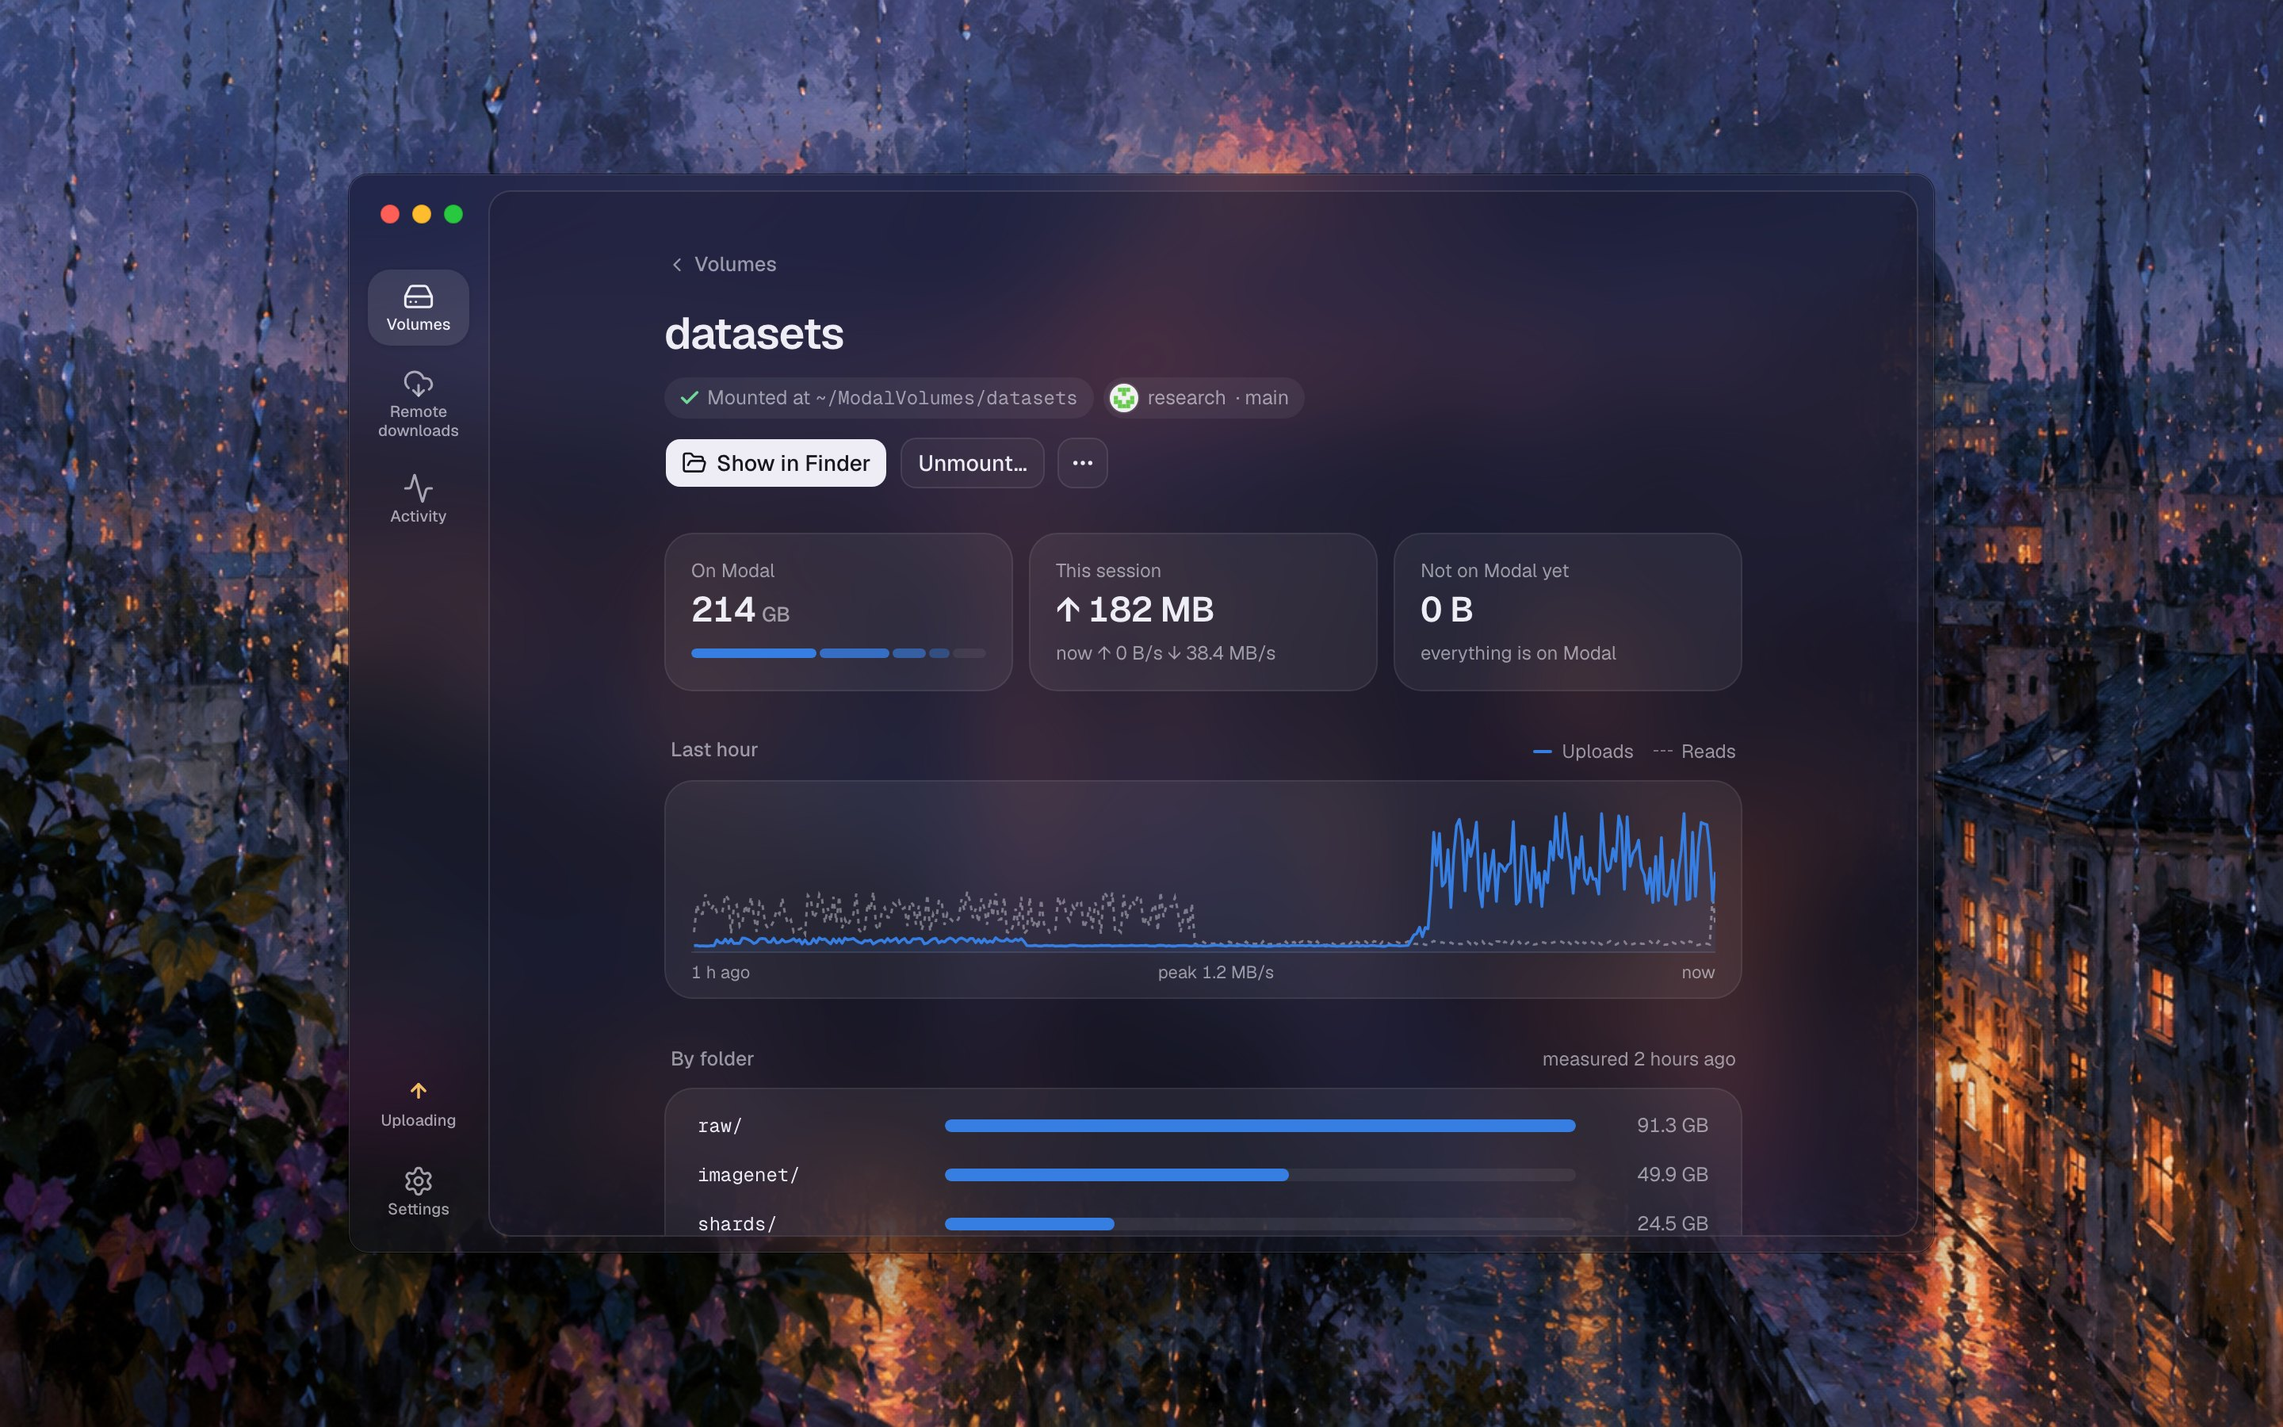
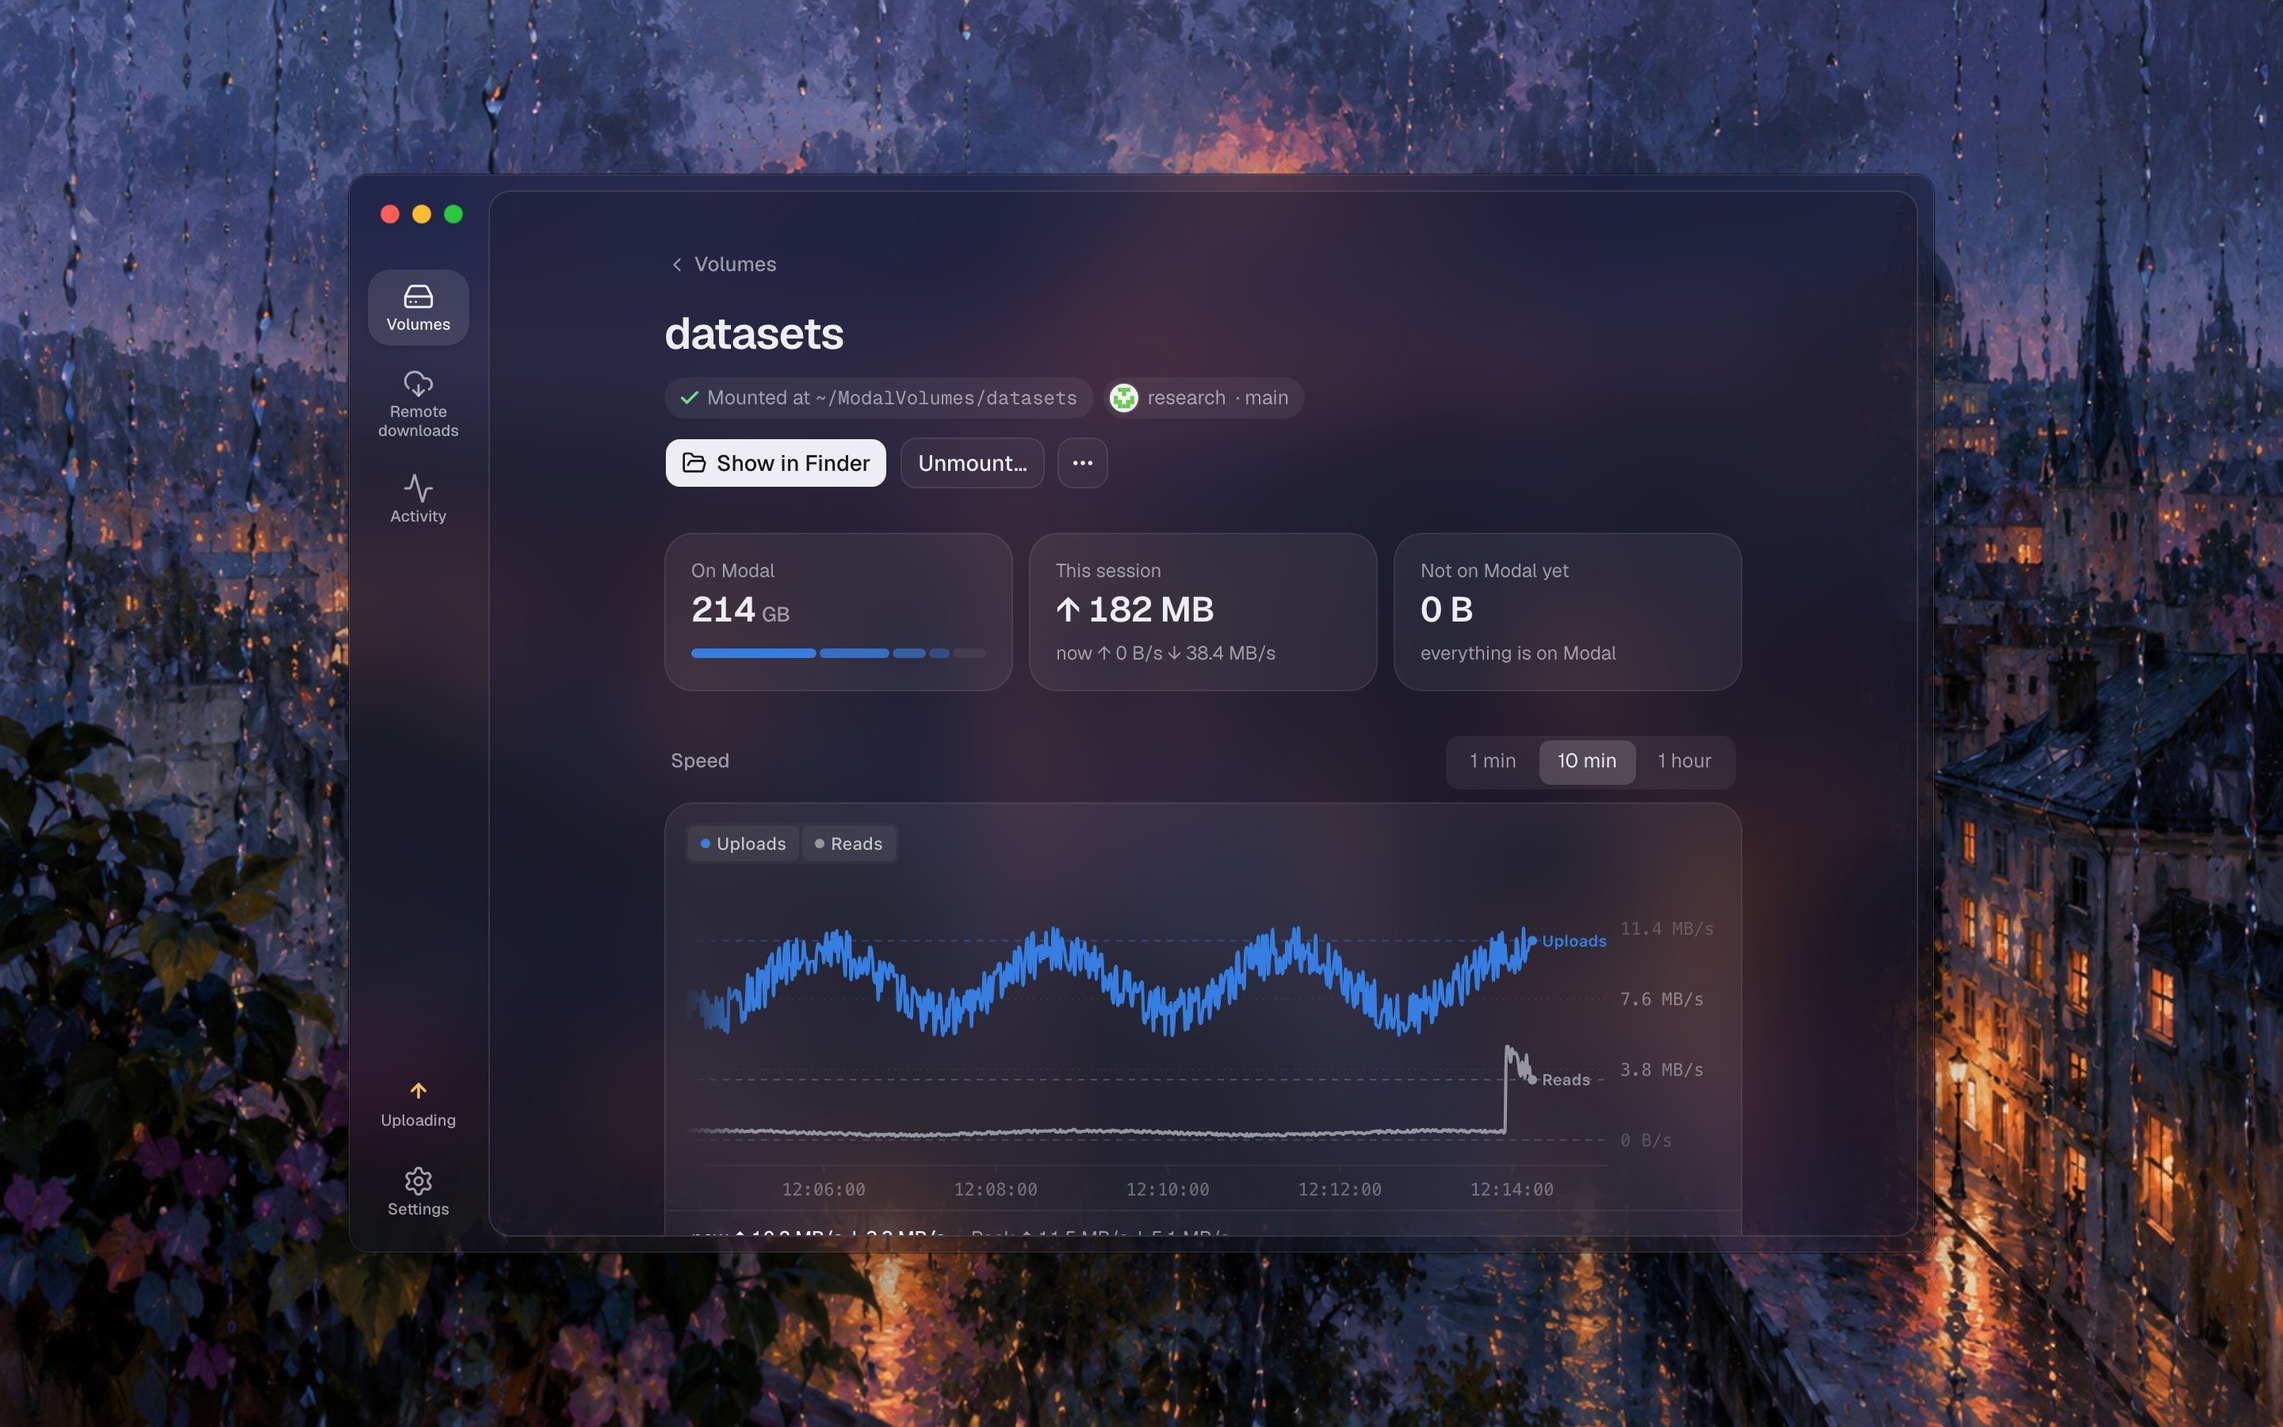
feat(ui): draw a volume's speed like a download's: live, with 1 min, 10 min and 1 hour

diff --git a/web/src/components/TrafficChart.tsx b/web/src/components/TrafficChart.tsx
@@ -1,50 +1,86 @@
+import { Liveline } from 'liveline'
 import { useMemo } from 'react'
 import { useTranslation } from 'react-i18next'
 import type { TrafficSample } from '@/api/types'
-import { bytes } from '@/lib/format'
+import { timeFormat, tokenColor } from '@/components/SpeedChart'
+import { downsample } from '@/lib/downloads'
+import { speed } from '@/lib/format'
 
-/**
- * What a mount uploaded and read over the last hour: the rate between each
- * sample the daemon took (every 10 s), as two lines over the same scale.
- */
-export function TrafficChart({ samples }: { samples: TrafficSample[] }) {
-  const { t } = useTranslation()
-  const { up, down, peak, from, to } = useMemo(() => {
-    const up: [number, number][] = []
-    const down: [number, number][] = []
+// A mount's upload and read speed, drawn like a download's (Liveline, scrolling
+// live) with the two as separate lines. The daemon samples the totals each
+// second; the speeds are the rates between samples.
+
+export type TrafficRange = 'minute' | 'tenMinutes' | 'hour'
+const RANGE_SECS: Record<TrafficRange, number> = { minute: 60, tenMinutes: 600, hour: 3600 }
+const PAD = { top: 18, bottom: 28, left: 12, right: 84 }
+
+type Point = { t: number; v: number }
+
+export function TrafficChart({ samples, range, dark }: { samples: TrafficSample[]; range: TrafficRange; dark: boolean }) {
+  const { t, i18n } = useTranslation()
+  const window = RANGE_SECS[range]
+
+  const { up, down } = useMemo(() => {
+    const up: Point[] = []
+    const down: Point[] = []
     for (let i = 1; i < samples.length; i++) {
       const [t0, u0, d0] = samples[i - 1]
       const [t1, u1, d1] = samples[i]
       const dt = Math.max(1, t1 - t0)
-      up.push([t1, Math.max(0, (u1 - u0) / dt)])
-      down.push([t1, Math.max(0, (d1 - d0) / dt)])
+      up.push({ t: t1, v: Math.max(0, (u1 - u0) / dt) })
+      down.push({ t: t1, v: Math.max(0, (d1 - d0) / dt) })
     }
-    const peak = Math.max(1, ...up.map((p) => p[1]), ...down.map((p) => p[1]))
-    const to = samples.at(-1)?.[0] ?? Date.now() / 1000
-    return { up, down, peak, from: to - 3600, to }
+    return { up, down }
   }, [samples])
 
-  const W = 700
-  const H = 96
-  const x = (ts: number) => ((ts - from) / (to - from)) * W
-  const y = (v: number) => H - 4 - (v / peak) * (H - 12)
-  const line = (pts: [number, number][]) => pts.map(([ts, v], i) => `${i ? 'L' : 'M'}${x(ts).toFixed(1)} ${y(v).toFixed(1)}`).join(' ')
-  const area = (pts: [number, number][]) => (pts.length ? `${line(pts)} L${x(pts.at(-1)![0]).toFixed(1)} ${H} L${x(pts[0][0]).toFixed(1)} ${H} Z` : '')
+  const brand = useMemo(() => tokenColor('--brand'), [])
+  // eslint-disable-next-line react-hooks/exhaustive-deps -- the token changes with the theme
+  const muted = useMemo(() => tokenColor('--muted-foreground', '--popover'), [dark])
+  const series = useMemo(() => {
+    const from = Date.now() / 1000 - window * 1.1
+    const shown = (pts: Point[]) => downsample(pts.filter((p) => p.t >= from), window).map((p) => ({ time: p.t, value: p.v }))
+    return [
+      { id: 'up', label: t('vol.uploads'), color: brand, data: shown(up), value: up.at(-1)?.v ?? 0 },
+      { id: 'down', label: t('vol.reads'), color: muted, data: shown(down), value: down.at(-1)?.v ?? 0 },
+    ]
+  }, [up, down, window, brand, muted, t])
+  const fmtTime = useMemo(() => timeFormat(window, 0, i18n.language), [window, i18n.language])
 
-  if (up.length < 2) return <div className="px-5 py-8 text-center text-[12.5px] text-muted-foreground">{t('vol.trafficSoon')}</div>
   return (
-    <div className="px-4 pt-3 pb-2">
-      <svg viewBox={`0 0 ${W} ${H}`} preserveAspectRatio="none" className="block h-24 w-full" role="img" aria-label={t('vol.trafficLabel', { peak: bytes(peak) })}>
-        <line x1="0" x2={W} y1={H - 0.5} y2={H - 0.5} stroke="currentColor" strokeOpacity="0.1" />
-        <path d={area(up)} fill="var(--brand)" fillOpacity="0.1" />
-        <path d={line(down)} fill="none" stroke="currentColor" strokeOpacity="0.4" strokeWidth="1.5" strokeDasharray="3 3" vectorEffect="non-scaling-stroke" />
-        <path d={line(up)} fill="none" stroke="var(--brand)" strokeWidth="1.8" strokeLinejoin="round" vectorEffect="non-scaling-stroke" />
-      </svg>
-      <div className="mt-1 flex justify-between text-[11px] text-muted-foreground tabular">
-        <span>{t('vol.hourAgo')}</span>
-        <span>{t('vol.peak', { speed: bytes(peak) })}</span>
-        <span>{t('vol.now')}</span>
+    <div>
+      {/* Liveline puts its toggles for the two lines above the chart, which takes the rest. */}
+      <div className="relative flex h-64 flex-col pt-3 max-[520px]:h-52">
+        <Liveline
+          data={series[0].data}
+          value={series[0].value}
+          series={series}
+          theme={dark ? 'dark' : 'light'}
+          window={window}
+          grid
+          pulse
+          loading={up.length < 2}
+          emptyText={t('downloads.chart.empty')}
+          formatValue={speed}
+          formatTime={fmtTime}
+          padding={PAD}
+          referenceLine={{ value: 0 }}
+          style={{ height: 'auto', flex: 1, minHeight: 0 }}
+        />
       </div>
+      <Readout up={up} down={down} window={window} />
+    </div>
+  )
+}
+
+/** Under the chart: the speeds now and their peaks in the window. Liveline shows the ones at the cursor. */
+function Readout({ up, down, window }: { up: Point[]; down: Point[]; window: number }) {
+  const { t } = useTranslation()
+  const from = (up.at(-1)?.t ?? 0) - window
+  const peak = (pts: Point[]) => pts.reduce((m, x) => (x.t >= from ? Math.max(m, x.v) : m), 0)
+  return (
+    <div className="flex min-h-9 flex-wrap items-center gap-x-4 gap-y-1 border-t border-card-border px-4 py-2 text-[12px] text-muted-foreground tabular">
+      <span className="font-medium text-foreground">{t('vol.speedNow', { up: speed(up.at(-1)?.v ?? 0), down: speed(down.at(-1)?.v ?? 0) })}</span>
+      <span>{t('vol.peaks', { up: speed(peak(up)), down: speed(peak(down)) })}</span>
     </div>
   )
 }

diff --git a/web/src/pages/VolumePage.tsx b/web/src/pages/VolumePage.tsx
@@ -7,12 +7,14 @@ import { api } from '@/api/client'
 import { patchMount, refreshState, refreshUsage, useAction, useConflicts, useLoadedState, usePending, useTraffic, useUsage, useVolumes } from '@/api/queries'
 import type { Mount } from '@/api/types'
 import { navigate } from '@/app/nav'
+import { useIsDark } from '@/app/theme'
 import { AccountMark, Bar, Chip, glyphOf, Hint, Tile } from '@/components/bits'
 import { confirm } from '@/components/confirm'
 import { Card, Mono, Page, Row, Section } from '@/components/page'
+import { Segmented } from '@/components/Segmented'
 import { Spinner } from '@/components/Spinner'
 import { duration, StopProgress } from '@/components/StopProgress'
-import { TrafficChart } from '@/components/TrafficChart'
+import { TrafficChart, type TrafficRange } from '@/components/TrafficChart'
 import { askUnmount, useVolumeMenu } from '@/components/VolumeMenu'
 import { Button } from '@/components/ui/button'
 import { Input } from '@/components/ui/input'
@@ -44,6 +46,7 @@ function Volume({ m, t }: { m: Mount; t: TFunction }) {
   const lang = i18n.language
   const st = useLoadedState()
   const home = homeOf(st.settings.mount_root)
+  const dark = useIsDark(st.settings.appearance)
   const l = look(m)
   const mounted = m.state === 'mounted'
   const s = m.status
@@ -56,6 +59,7 @@ function Volume({ m, t }: { m: Mount; t: TFunction }) {
   const info = vols.data?.find((v) => (m.volume_id ? v.id === m.volume_id : v.name === m.volume_name))
   const usage = useUsage(m.id)
   const traffic = useTraffic(m.id, mounted || m.state === 'stopping')
+  const [range, setRange] = useState<TrafficRange>('tenMinutes')
   const pending = usePending(m.id, (s?.pending_files ?? 0) > 0)
   const conflicts = useConflicts(m.id, m.open_conflicts ?? 0)
 
@@ -327,22 +331,22 @@ function Volume({ m, t }: { m: Mount; t: TFunction }) {
 
       {(mounted || m.state === 'stopping') && (
         <Section
-          label={t('vol.lastHour')}
+          label={t('vol.speedOver')}
           aside={
-            <span className="flex items-center gap-3 text-[12px] text-muted-foreground">
-              <span className="flex items-center gap-1.5">
-                <span className="h-0.5 w-3 rounded-full bg-brand" />
-                {t('vol.uploads')}
-              </span>
-              <span className="flex items-center gap-1.5">
-                <span className="h-0 w-3 border-t-[1.5px] border-dashed border-foreground/40" />
-                {t('vol.reads')}
-              </span>
-            </span>
+            <Segmented<TrafficRange>
+              label={t('vol.speedOver')}
+              value={range}
+              onChange={setRange}
+              options={[
+                { value: 'minute', label: t('downloads.range.minute') },
+                { value: 'tenMinutes', label: t('downloads.range.tenMinutes') },
+                { value: 'hour', label: t('vol.rangeHour') },
+              ]}
+            />
           }
         >
           <Card>
-            <TrafficChart samples={traffic.data ?? []} />
+            <TrafficChart samples={traffic.data ?? []} range={range} dark={dark} />
           </Card>
         </Section>
       )}

diff --git a/web/src/components/SpeedChart.tsx b/web/src/components/SpeedChart.tsx
@@ -67,7 +67,7 @@ function Chart({ points, running, value, range, happenings, dark }: Props) {
   const { t, i18n } = useTranslation()
   const box = useRef<HTMLDivElement>(null)
   const size = useSize(box)
-  const color = useMemo(brandColor, [])
+  const color = useMemo(() => tokenColor('--brand'), []) // the same in both themes
   const [hover] = useState(hoverStore)
 
   // The display clock. A finished download's last sample is put at the moment
@@ -268,7 +268,7 @@ function Readout({ g, hover, fmtTime, points }: { g: Geometry; hover: HoverStore
 }
 
 /** Time labels: with seconds for short windows, with the date for long ones. Liveline's times are shifted by `offset`. */
-function timeFormat(window: number, offset: number, lang: string) {
+export function timeFormat(window: number, offset: number, lang: string) {
   const o: Intl.DateTimeFormatOptions = window <= 600 ? { hour: '2-digit', minute: '2-digit', second: '2-digit', hour12: false } : { hour: '2-digit', minute: '2-digit', hour12: false }
   if (window > 86400) Object.assign(o, { month: 'short', day: 'numeric' })
   const f = new Intl.DateTimeFormat(intlTag(lang), o)
@@ -304,11 +304,16 @@ function useSize(ref: React.RefObject<HTMLElement | null>) {
   return size
 }
 
-/** The brand color as rgb(): Liveline reads only hex and rgb, and the token is oklch (the same in both themes). */
-function brandColor() {
-  const css = getComputedStyle(document.documentElement).getPropertyValue('--brand').trim()
+/** A color token as rgb(): Liveline reads only hex and rgb, and the tokens are oklch. A translucent one is mixed onto the `under` tokens, painted in order. */
+export function tokenColor(name: string, ...under: string[]) {
+  const style = getComputedStyle(document.documentElement)
+  const css = style.getPropertyValue(name).trim()
   const ctx = document.createElement('canvas').getContext('2d', { willReadFrequently: true })
   if (!ctx || !css) return '#3b82f6'
+  for (const u of under) {
+    ctx.fillStyle = style.getPropertyValue(u).trim()
+    ctx.fillRect(0, 0, 1, 1)
+  }
   ctx.fillStyle = css
   ctx.fillRect(0, 0, 1, 1)
   const [r, g, b] = ctx.getImageData(0, 0, 1, 1).data

diff --git a/web/src/api/mock.ts b/web/src/api/mock.ts
@@ -14,6 +14,7 @@ const ROOT = `${HOME}/ModalVolumes`
 const MiB = 1 << 20
 const GiB = 1 << 30
 const now = () => Math.floor(Date.now() / 1000)
+const trafficFrom = now() - 3600
 const params = new URLSearchParams(location.search)
 
 const accounts: Account[] = [
@@ -805,16 +806,16 @@ function insight(method: string, mt: Mount, what: string, body: Body): unknown {
   }
   if (what === 'traffic') {
     if (mt.state !== 'mounted' && mt.state !== 'stopping') return []
+    // The same totals on every call, from an hour before the mock started, so asking `since` works.
     const out: TrafficSample[] = []
     const r = rng(mt.id.length * 31)
-    const t0 = now() - 3600
     let up = 0
     let down = 0
-    for (let t = t0; t <= now(); t += 10) {
-      const k = (t - t0) / 3600
-      up += Math.max(0, (k > 0.7 ? 9e6 : 0.6e6) * (0.4 + r()) * (Math.sin(k * 9) > 0.2 ? 1 : 0.15))
-      down += Math.max(0, 4e6 * (0.3 + r()) * (Math.sin(k * 5 + 1) > -0.3 ? 1 : 0.1))
-      out.push([t, Math.round(up), Math.round(down)])
+    for (let t = trafficFrom; t <= now(); t++) {
+      const k = (t - trafficFrom) / 3600
+      up += (k > 0.7 ? 9e6 : 0.6e6) * (0.85 + 0.3 * r() + 0.2 * Math.sin(k * 140)) * (Math.sin(k * 9) > 0.2 ? 1 : 0.15)
+      down += 4e6 * (0.8 + 0.4 * r() + 0.3 * Math.sin(k * 90 + 1)) * (Math.sin(k * 5 + 1) > -0.3 ? 1 : 0.1)
+      if (t > Number(body.since ?? 0) && t >= now() - 3600) out.push([t, Math.round(up), Math.round(down)])
     }
     return out
   }
@@ -1026,7 +1027,7 @@ export async function mockRequest(method: string, path: string, raw?: unknown): 
 
   // a volume's page
   if ((m = p.match(/^\/mounts\/([^/]+)\/(usage|traffic|pending|conflicts|conflicts\/clear)$/))) {
-    const r = insight(method, findMount(m[1]), m[2], body)
+    const r = insight(method, findMount(m[1]), m[2], { ...body, since: url.searchParams.get('since') ?? undefined })
     if (r !== undefined) return r
   }
 

diff --git a/web/src/api/queries.ts b/web/src/api/queries.ts
@@ -224,13 +224,23 @@ export function useUsage(mountId: string) {
 }
 export const refreshUsage = (mountId: string) => queryClient.invalidateQueries({ queryKey: ['usage', mountId] })
 
-/** The mount's upload and read totals every 10 s for the last hour. */
+/** The mount's upload and read totals each second for the last hour: all of them once, then only the new ones. */
 export function useTraffic(mountId: string, enabled: boolean) {
+  const key = ['traffic', mountId]
   return useQuery({
-    queryKey: ['traffic', mountId],
-    queryFn: () => api<TrafficSample[]>('GET', `/mounts/${mountId}/traffic`),
+    queryKey: key,
+    queryFn: async () => {
+      const have = queryClient.getQueryData<TrafficSample[]>(key) ?? []
+      const last = have.at(-1)
+      const fresh = await api<TrafficSample[]>('GET', `/mounts/${mountId}/traffic${last ? `?since=${last[0]}` : ''}`)
+      // The totals start again at zero with each mount: the old samples would make a negative rate.
+      const restarted = last && fresh.length > 0 && (fresh[0][1] < last[1] || fresh[0][2] < last[2])
+      const all = restarted ? fresh : [...have, ...fresh]
+      const from = (all.at(-1)?.[0] ?? 0) - 3600
+      return all.slice(all.findIndex((s) => s[0] >= from))
+    },
     enabled,
-    refetchInterval: 10_000,
+    refetchInterval: 1000,
     retry: false,
   })
 }
